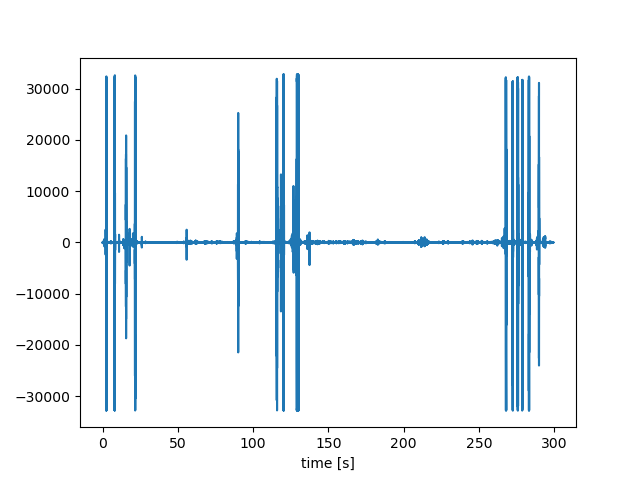
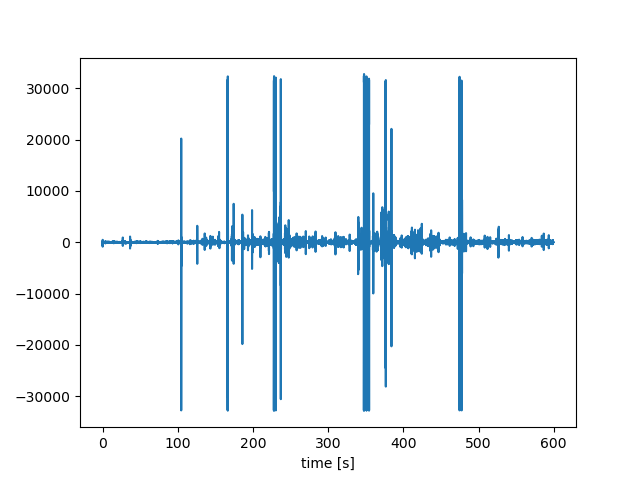
complete motor

diff --git a/python/recording.py b/python/recording.py
@@ -15,7 +15,7 @@ form_1 = pyaudio.paInt16 # 16-bit resolution
 chans = 1 # 1 channel
 samp_rate = 16000 # 44.1kHz sampling rate
 chunk = 8192 # 2^12 samples for buffer
-record_secs = 300 # seconds to record
+record_secs = 600 # seconds to record
 dev_index = 7 # device index found by p.get_device_info_by_index(ii)
 wav_output_filename = 'test1.wav' # name of .wav file
 
